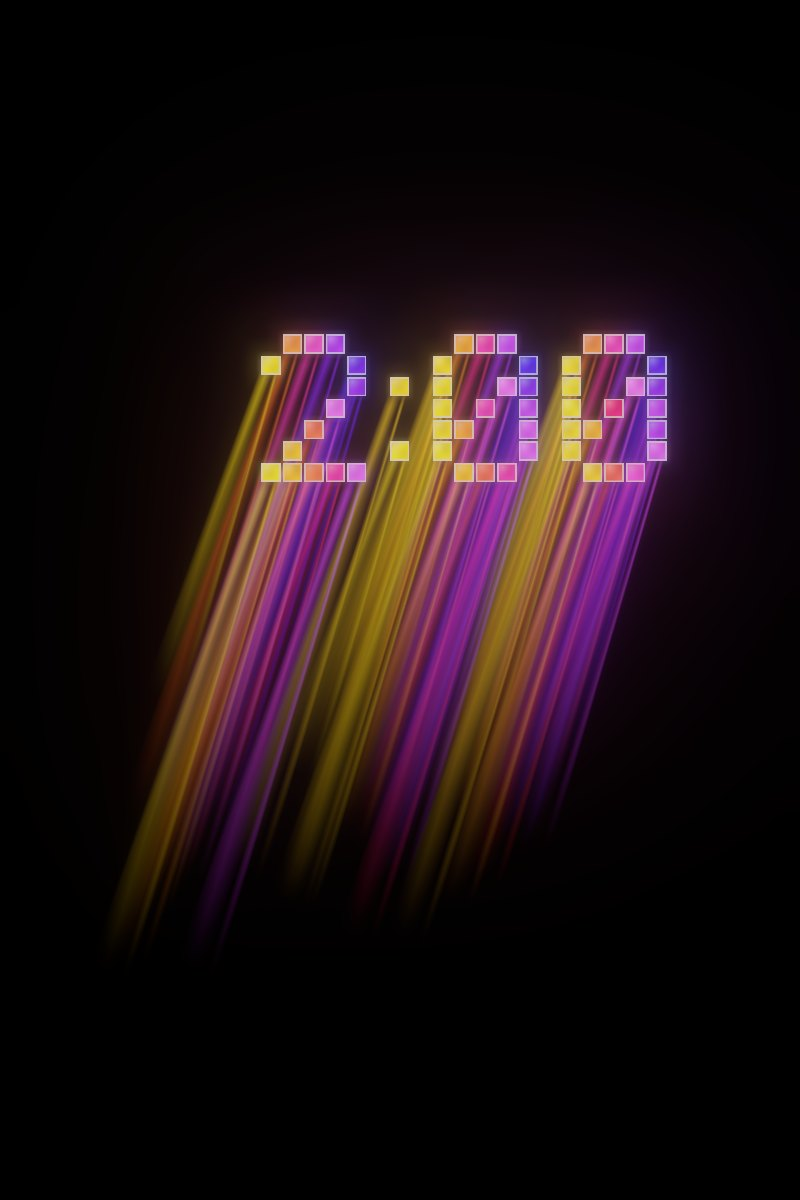
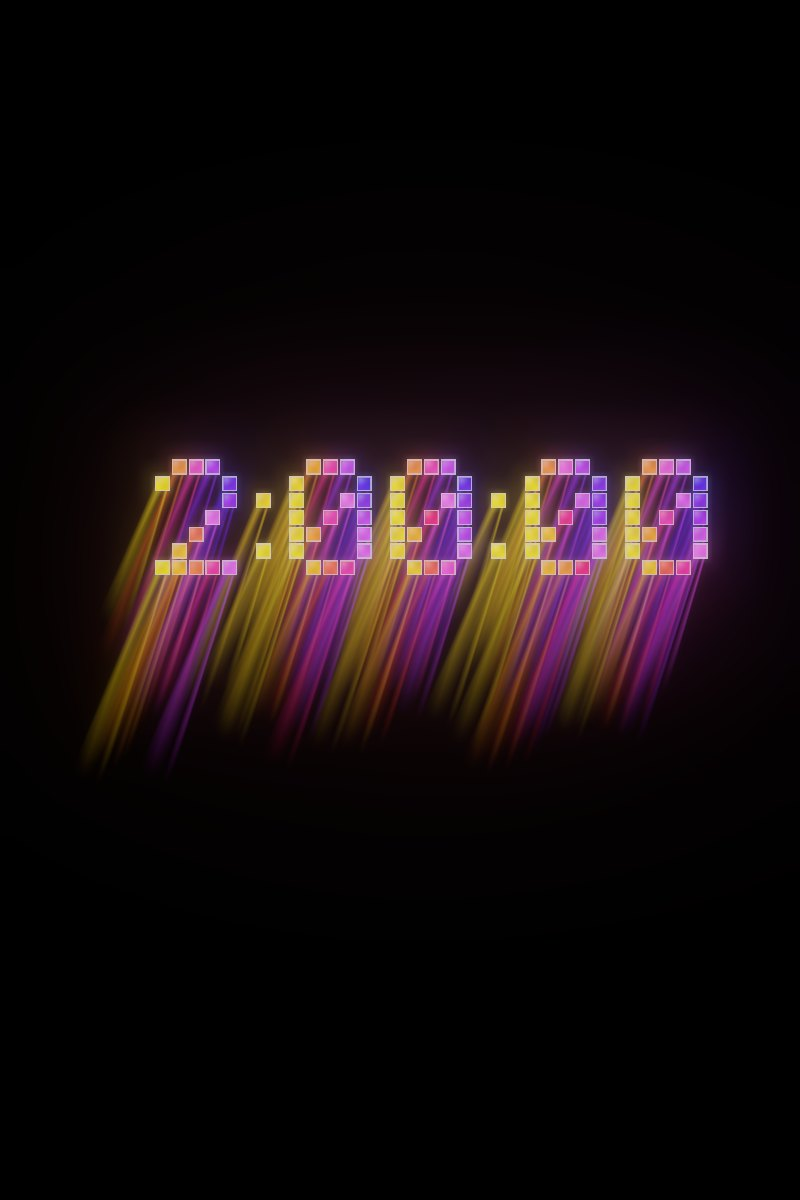
Affiches entières et centrées, actualités chronologiques, en-tête flouté
- Affiches refaites : titres entiers et centrés ; « Clean Glass » sur deux
  lignes, « 3.2M » en affiche, « 2:00:00 » sur une seule ligne.
- Outil Voxel Type : « | » passe à la ligne, chaque ligne centrée.
- Actualités dans l'ordre chronologique strict (à gauche la plus récente),
  « À venir » en tête ; visuel « ? » retiré.
- En-tête : fond flouté derrière la barre au défilement.
- Fondu des bords des images renforcé.

Claude-Session: https://claude.ai/code/session_01AeWBKp6jY6m2cPjRKCQ14V

Changed region(s): [[0.0938, 0.2467, 0.9375, 0.7708]]

diff --git a/outils/voxel-type/index.html b/outils/voxel-type/index.html
@@ -87,7 +87,7 @@ input[type=checkbox]{accent-color:var(--fg);width:15px;height:15px;margin:0;just
 
 <div class="bottom">
   <label for="txt" class="sr" style="position:absolute;width:1px;height:1px;overflow:hidden;clip:rect(0 0 0 0)">Texte</label>
-  <input id="txt" type="text" maxlength="40" autocomplete="off" spellcheck="false" value="FantinHD" placeholder="Tape ton texte">
+  <input id="txt" type="text" maxlength="40" autocomplete="off" spellcheck="false" value="FantinHD" placeholder="Tape ton texte (| pour aller à la ligne)">
 </div>
 
 <div class="ui stats-l" id="statV">Voxels · 0</div>
@@ -306,7 +306,7 @@ const rayMat = new THREE.ShaderMaterial({
     }`
 });
 
-let voxMesh = null, rayMesh = null, cells = [], layoutW = 0, charX = [], charBorn = [], prevChars = [];
+let voxMesh = null, rayMesh = null, cells = [], layoutW = 0, layoutCY = 3, charX = [], charBorn = [], prevChars = [];
 const tmpM = new THREE.Matrix4(), tmpQ = new THREE.Quaternion(), tmpV = new THREE.Vector3(), tmpS = new THREE.Vector3(), Z = new THREE.Vector3(0,0,1);
 
 function hash(a, b, c, d){
@@ -322,19 +322,25 @@ function canKern(prev, next){
   return a.length && b.length && !a.some(r => b.some(q => Math.abs(r - q) <= 1));
 }
 
+// « | » passe à la ligne : chaque ligne est centrée, 2 rangées d'écart entre les lignes
 function layout(text){
-  const chars = [...text.normalize("NFD").replace(/[̀-ͯ]/g, "")];
-  const out = []; const xs = []; let x = 0, prev = null;
+  const chars = [...text.normalize("NFD").replace(/[\u0300-\u036f]/g, "")];
+  const out = []; const xs = []; let x = 0, prev = null, line = 0, lineStart = 0;
+  const widths = [];
   chars.forEach((ch, i) => {
+    if (ch === "|"){ widths[line] = x; line++; x = 0; prev = null; xs[i] = 0; return; }
     const gl = G[ch] || G[ch.toUpperCase()];
     if (!gl){ xs[i] = x; x += 3; prev = null; return; }
     if (prev){ x += (S.kern && canKern(prev, gl)) ? 0 : 1; }
     xs[i] = x;
     const w = gl[0].length;
-    gl.forEach((row, r) => { for (let c = 0; c < w; c++) if (row[c] === "#") out.push({ i, r, c, x:x + c, gw:w }); });
+    gl.forEach((row, r) => { for (let c = 0; c < w; c++) if (row[c] === "#") out.push({ i, r, c, x:x + c, gw:w, line, ry:r + line * 9 }); });
     x += w; prev = gl;
   });
-  return { cells:out, width:x, chars, xs };
+  widths[line] = x;
+  const width = Math.max(...widths);
+  for (const cell of out) cell.x += (width - widths[cell.line]) / 2;
+  return { cells:out, width, rows:(line + 1) * 9 - 2, chars, xs };
 }
 
 const pal = () => S.palette.map(h => new THREE.Color(h));
@@ -371,7 +377,7 @@ function updateMatrices(){
   tmpQ.setFromUnitVectors(Z, rayDirVec());
   const idQ = new THREE.Quaternion();
   cells.forEach((cell, k) => {
-    tmpV.set(cell.x - (layoutW - 1) / 2, 3 - cell.r, 0);
+    tmpV.set(cell.x - (layoutW - 1) / 2, layoutCY - cell.ry, 0);
     voxMesh.setMatrixAt(k, tmpM.compose(tmpV, idQ, tmpS.set(s, s, S.depth)));
     rayMesh.setMatrixAt(k, tmpM.compose(tmpV, tmpQ, tmpS.set(1, 1, 1)));
   });
@@ -400,7 +406,7 @@ function updateBorn(){
 
 function rebuild(){
   const L = layout(S.text);
-  cells = L.cells; layoutW = L.width; charX = L.xs;
+  cells = L.cells; layoutW = L.width; layoutCY = (L.rows - 1) / 2; charX = L.xs;
   const t = now();
   charBorn = L.chars.map((ch, i) => (prevChars[i] === ch && charBorn[i] !== undefined) ? charBorn[i] : (reduced ? -10 : t));
   prevChars = L.chars;
@@ -428,12 +434,12 @@ function rebuild(){
 /* ---------- Caméra ---------- */
 let fitBase = 1;
 function fitDist(aspect){
-  const W = Math.max(layoutW, 6) + 3, H = 11;
+  const W = Math.max(layoutW, 6) + 3, H = layoutCY * 2 + 5;
   const tv = Math.tan(THREE.MathUtils.degToRad(camera.fov / 2));
   return Math.max((W / 2) / (tv * aspect), (H / 2) / tv) * 1.12;
 }
 function fitHalfH(aspect){
-  const W = Math.max(layoutW, 6) + 3, H = 11;
+  const W = Math.max(layoutW, 6) + 3, H = layoutCY * 2 + 5;
   return Math.max(H / 2, (W / 2) / aspect) * 1.12;
 }
 function setOrtho(aspect){
@@ -467,7 +473,7 @@ function computeBounds(){
   const L = [], R = [], s = 1 - S.gap, hz = S.depth / 2, D = rayDirVec();
   const rnd = voxMesh ? voxMesh.geometry.getAttribute("aRand") : null;
   cells.forEach((cell, k) => {
-    const x = cell.x - (layoutW - 1) / 2, y = 3 - cell.r;
+    const x = cell.x - (layoutW - 1) / 2, y = layoutCY - cell.ry;
     for (const dx of [-s / 2, s / 2]) for (const dy of [-s / 2, s / 2]) for (const dz of [-hz, hz]) L.push(new THREE.Vector3(x + dx, y + dy, dz));
     if (S.rays && S.rayInt > 0){
       // au-delà de 75 % de sa longueur, un rayon est presque invisible : on ne le cadre pas

diff --git a/styles.css b/styles.css
@@ -28,7 +28,7 @@ strong{font-weight:700}
 
 /* ---------- En-tête ---------- */
 .header{position:fixed;inset:0 0 auto;z-index:40;padding-top:env(safe-area-inset-top, 0px);transition:background .3s}
-.header.is-solid{background:rgba(0,0,0,.92)}
+.header.is-solid{background:rgba(0,0,0,.55);-webkit-backdrop-filter:blur(18px) saturate(1.2);backdrop-filter:blur(18px) saturate(1.2)}
 .header__row{height:var(--head);display:flex;align-items:center;gap:36px;padding-left:var(--gut);padding-right:var(--gut-r)}
 .header__logo{display:block;margin:-10px 0}
 .header__logo img{height:40px;width:auto}
@@ -61,7 +61,7 @@ strong{font-weight:700}
 .projects{max-width:var(--max);margin:0 auto;padding:0 var(--gut-r) 0 var(--gut);display:grid;grid-template-columns:repeat(2, minmax(0, 1fr));gap:clamp(64px, 7vw, 96px) clamp(32px, 4vw, 64px)}
 .project{display:grid;grid-template-columns:minmax(0, 1fr) minmax(0, 1.25fr);gap:clamp(24px, 3vw, 44px);align-items:start}
 .project__poster{display:block;aspect-ratio:2 / 3;overflow:hidden;max-width:100%}
-.project__poster img{width:100%;height:100%;object-fit:cover;transition:transform .6s ease;-webkit-mask-image:radial-gradient(ellipse 85% 80% at 50% 45%, #000 60%, transparent 100%);mask-image:radial-gradient(ellipse 85% 80% at 50% 45%, #000 60%, transparent 100%)}
+.project__poster img{width:100%;height:100%;object-fit:cover;transition:transform .6s ease;-webkit-mask-image:radial-gradient(ellipse 62% 56% at 50% 50%, #000 40%, transparent 100%);mask-image:radial-gradient(ellipse 62% 56% at 50% 50%, #000 40%, transparent 100%)}
 a.project__poster:hover img{transform:scale(1.03)}
 .project__name{margin:6px 0 0;font-weight:700;font-size:clamp(23px, 2vw, 30px);line-height:1.3;letter-spacing:0}
 .project__sub{display:block;font-weight:400;font-size:15px;color:var(--mute)}
@@ -80,7 +80,7 @@ a.project__poster:hover img{transform:scale(1.03)}
 .news__track::-webkit-scrollbar{display:none}
 .news__item{scroll-snap-align:start;min-width:0}
 .news__img{aspect-ratio:16 / 9;overflow:hidden;margin-bottom:18px}
-.news__img img{width:100%;height:100%;object-fit:cover;-webkit-mask-image:radial-gradient(ellipse 80% 75% at 50% 50%, #000 55%, transparent 100%);mask-image:radial-gradient(ellipse 80% 75% at 50% 50%, #000 55%, transparent 100%)}
+.news__img img{width:100%;height:100%;object-fit:cover;-webkit-mask-image:radial-gradient(ellipse 60% 62% at 50% 50%, #000 40%, transparent 100%);mask-image:radial-gradient(ellipse 60% 62% at 50% 50%, #000 40%, transparent 100%)}
 .news__date{margin:0 0 8px;font-size:11px;letter-spacing:.12em;text-transform:uppercase;color:var(--mute)}
 .news__item h3{margin:0;font-weight:400;font-size:clamp(20px, 1.7vw, 24px);line-height:1.35;letter-spacing:0}
 .news__item p{margin:10px 0 0;font-size:13px;line-height:1.7;color:var(--soft);display:-webkit-box;-webkit-line-clamp:3;-webkit-box-orient:vertical;overflow:hidden}

diff --git a/app.js b/app.js
@@ -35,13 +35,14 @@ const games = [
 ];
 
 /* Actualités : uniquement les grandes étapes (sorties, grosses mises à jour, annonces),
-   de la plus récente à la plus ancienne. Dates au mois, validées par Fantin. */
+   dans l'ordre chronologique strict : à gauche la plus récente, à droite la plus ancienne.
+   Dates au mois, validées par Fantin. */
 const news = [
+  { date:"À venir", title:"2:00:00 arrive sur Steam", text:"Une expérience minimaliste autour de l'attente et du hasard, en préparation pour Steam.", img:"assets/images/visuels/2-00-00.jpg" },
   { date:"Octobre 2026", title:"Nouveau site FantinHD", text:"Le site officiel fait peau neuve, avec le logo en pixels de verre et tous les jeux au même endroit.", img:"assets/logo/og.jpg" },
   { date:"Octobre 2026", title:"3 200 000 en test fermé", text:"Le jeu prend son nom définitif et entre en test fermé sur Android.", img:"assets/images/visuels/3-2m.jpg" },
-  { date:"En développement", title:"2:00:00 arrive sur Steam", text:"Une expérience minimaliste autour de l'attente et du hasard, en préparation pour Steam.", img:"assets/images/visuels/2-00-00.jpg" },
-  { date:"Disponible", title:"Farkle se joue en ligne", text:"Multijoueur en ligne, amis, invitations et classement : défie d'autres joueurs dans la taverne.", img:"assets/images/visuels/farkle.jpg" },
   { date:"Août 2026", title:"Farkle : boutique et nouveau look", text:"Grosse mise à jour : une boutique de skins cosmétiques et une refonte visuelle façon taverne en bois.", img:"assets/images/visuels/farkle.jpg" },
+  { date:"Juin 2026", title:"Farkle se joue en ligne", text:"Multijoueur en ligne, amis, invitations et classement : défie d'autres joueurs dans la taverne.", img:"assets/images/visuels/farkle.jpg" },
   { date:"Juin 2026", title:"Farkle sort sur Google Play", text:"Le jeu de dés médiéval est disponible sur Android.", img:"assets/images/visuels/farkle.jpg" },
   { date:"Mai 2026", title:"Clean Glass sort sur Google Play", text:"Le jeu de nettoyage relaxant est disponible sur Android.", img:"assets/images/visuels/clean-glass.jpg" }
 ];

diff --git a/outils/voxel-type/README.md b/outils/voxel-type/README.md
@@ -5,3 +5,5 @@ Outil pour fabriquer le logo FantinHD en pixels de verre avec rayons de lumière
 - En ligne : https://the-first-dog.github.io/FantinHD/outils/voxel-type/
 - En local : télécharge `index.html` et ouvre-le dans Chrome ou Edge (connexion internet nécessaire pour la 3D).
 - Réglages officiels du logo : `reglages-fantinhd.txt` (Réglages → Export → Importer réglages).
+
+- Retour à la ligne : tape « | » dans le texte (ex. `Clean|Glass`). Chaque ligne est centrée.
